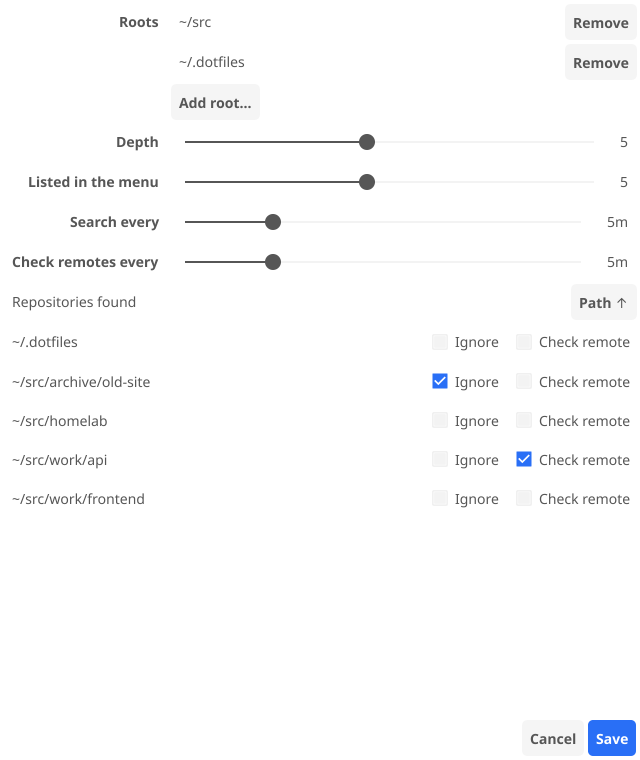
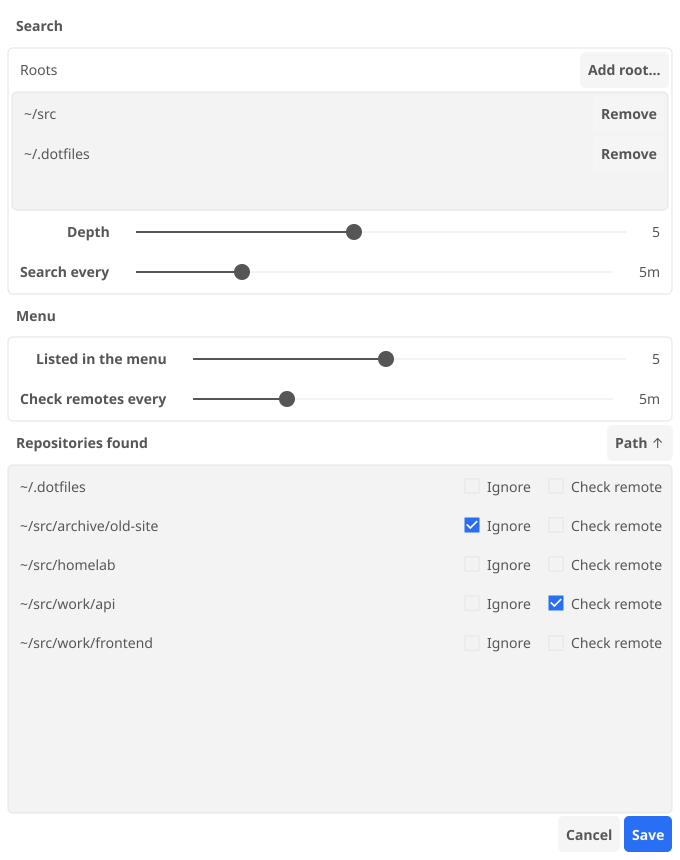
settings: Group boxes, sunken lists, margins, scrollable roots

diff --git a/src/settings.go b/src/settings.go
@@ -1,14 +1,17 @@
 package main
 
 import (
+	"image/color"
 	"slices"
 	"strconv"
 	"time"
 
 	"fyne.io/fyne/v2"
+	"fyne.io/fyne/v2/canvas"
 	"fyne.io/fyne/v2/container"
 	"fyne.io/fyne/v2/dialog"
 	"fyne.io/fyne/v2/layout"
+	"fyne.io/fyne/v2/theme"
 	"fyne.io/fyne/v2/widget"
 )
 
@@ -36,7 +39,7 @@ func (t *tray) showSettings() {
 		t.settings = t.app.NewWindow("unpushed settings")
 		t.settings.SetCloseIntercept(t.settings.Hide)
 		t.settings.SetIcon(appIcon)
-		t.settings.Resize(fyne.NewSize(640, 760))
+		t.settings.Resize(fyne.NewSize(680, 860))
 	}
 	t.mu.Lock()
 	d := t.cfg
@@ -63,7 +66,9 @@ func (t *tray) showSettings() {
 			})
 			roots.Add(container.NewBorder(nil, nil, nil, remove, widget.NewLabel(tilde(path))))
 		}
-		roots.Add(container.NewHBox(addRoot))
+		if len(roots.Objects) == 0 {
+			roots.Add(widget.NewLabel("No roots, nothing is searched."))
+		}
 	}
 	addRoot.OnTapped = func() {
 		t.pickDirs("Add root", func(path string) {
@@ -109,12 +114,25 @@ func (t *tray) showSettings() {
 	}
 	buildRepos()
 
-	form := widget.NewForm(
-		widget.NewFormItem("Roots", roots),
-		widget.NewFormItem("Depth", depth),
+	rootsList := container.NewVScroll(roots)
+	rootsList.SetMinSize(fyne.NewSize(0, 110))
+	search := group("Search", container.NewVBox(
+		container.NewBorder(nil, nil, widget.NewLabel("Roots"), addRoot),
+		sunken(rootsList),
+		widget.NewForm(
+			widget.NewFormItem("Depth", depth),
+			widget.NewFormItem("Search every", scanEvery),
+		),
+	))
+	menu := group("Menu", widget.NewForm(
 		widget.NewFormItem("Listed in the menu", max),
-		widget.NewFormItem("Search every", scanEvery),
 		widget.NewFormItem("Check remotes every", remoteEvery),
+	))
+	// The sunken list is frame enough
+	reposTitle := widget.NewLabelWithStyle("Repositories found", fyne.TextAlignLeading, fyne.TextStyle{Bold: true})
+	repos := container.NewBorder(
+		container.NewBorder(nil, nil, nil, sortButton, reposTitle), nil, nil, nil,
+		sunken(container.NewVScroll(rows)),
 	)
 
 	save := widget.NewButton("Save", func() {
@@ -127,14 +145,36 @@ func (t *tray) showSettings() {
 	save.Importance = widget.HighImportance
 	cancel := widget.NewButton("Cancel", t.settings.Hide)
 
-	t.settings.SetContent(container.NewBorder(
-		container.NewVBox(form, container.NewBorder(nil, nil, widget.NewLabel("Repositories found"), sortButton)),
+	t.settings.SetContent(container.NewPadded(container.NewBorder(
+		container.NewVBox(search, menu),
 		container.NewHBox(layout.NewSpacer(), cancel, save),
 		nil, nil,
-		container.NewVScroll(rows),
-	))
+		repos,
+	)))
 	t.settings.Show()
 	t.settings.RequestFocus()
+}
+
+// group frames content with a border under a bold title.
+func group(title string, content fyne.CanvasObject) fyne.CanvasObject {
+	frame := canvas.NewRectangle(color.Transparent)
+	frame.StrokeColor = theme.Color(theme.ColorNameSeparator)
+	frame.StrokeWidth = 1
+	frame.CornerRadius = theme.InputRadiusSize()
+	return container.NewBorder(
+		widget.NewLabelWithStyle(title, fyne.TextAlignLeading, fyne.TextStyle{Bold: true}), nil, nil, nil,
+		container.NewStack(frame, container.NewPadded(content)),
+	)
+}
+
+// sunken puts content on the input background with a border, the way lists
+// sit in the window.
+func sunken(content fyne.CanvasObject) fyne.CanvasObject {
+	bg := canvas.NewRectangle(theme.Color(theme.ColorNameInputBackground))
+	bg.StrokeColor = theme.Color(theme.ColorNameInputBorder)
+	bg.StrokeWidth = 1
+	bg.CornerRadius = theme.InputRadiusSize()
+	return container.NewStack(bg, container.NewPadded(content))
 }
 
 // numberSlider sets *v from 1 to 10.
